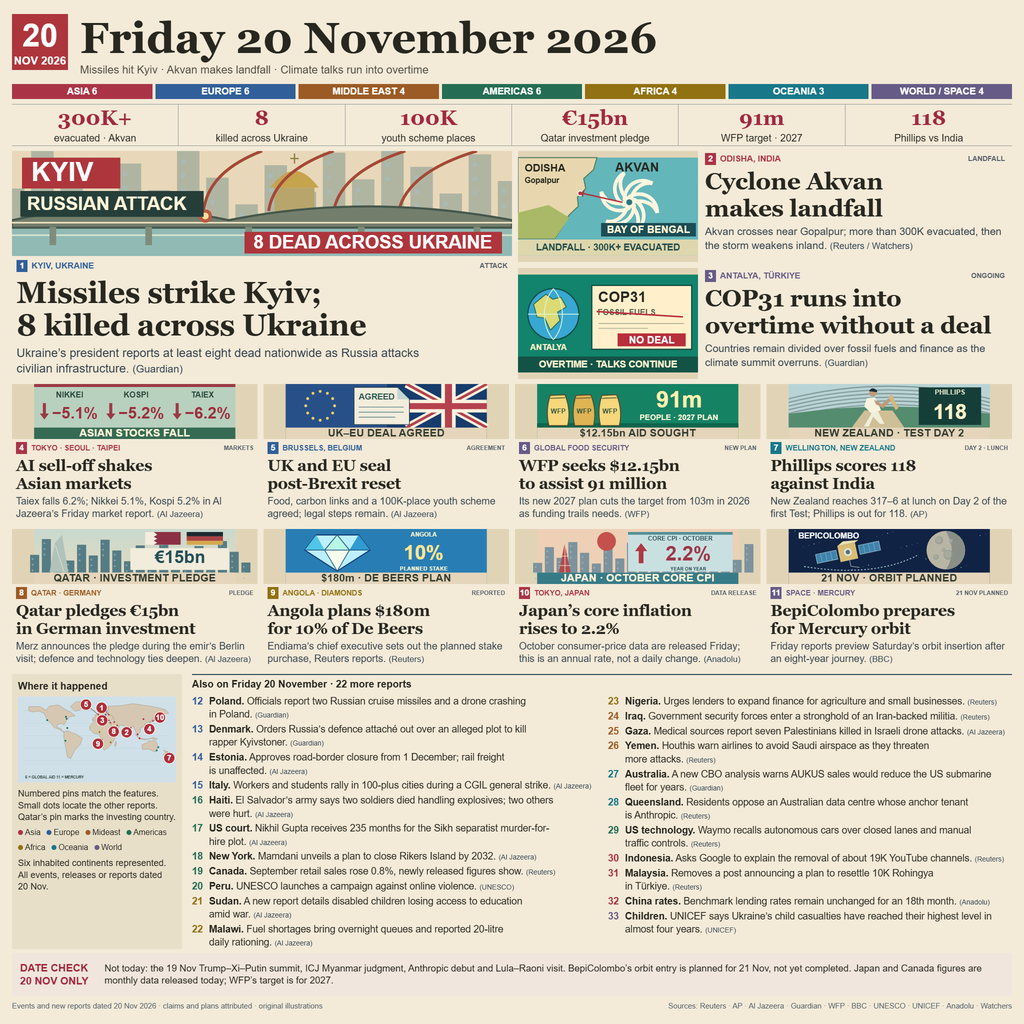
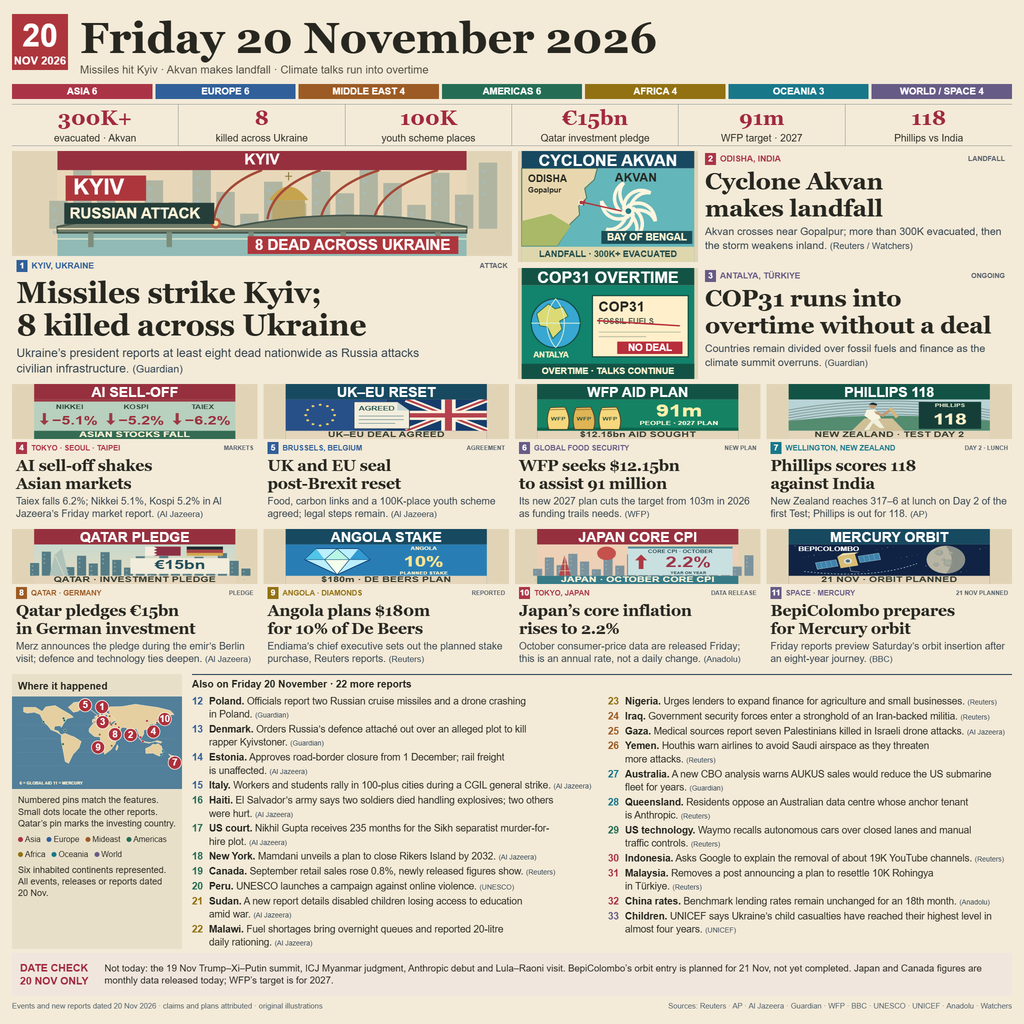
Add bold subject stamps and strengthen world map contrast

diff --git a/render.html b/render.html
@@ -50,7 +50,7 @@ h2{font:700 60px/1.08 Georgia,serif;letter-spacing:-.5px;margin:9px 0}
 .lower{display:grid;grid-template-columns:340px 1fr;gap:20px;min-height:0}
 .map-panel{background:#e8dfc9;padding:12px;min-width:0}
 .panel-title{font-size:20px;line-height:25px;font-weight:700;margin:0 0 8px}
-.map{width:100%;margin:0}
+.map{width:calc(100% + 24px);margin:0 -12px}
 .map svg{width:100%;display:block}
 .map-note{font-size:18px;line-height:1.3;margin:11px 0 0}
 .map-legend{display:flex;gap:12px;flex-wrap:wrap;margin-top:10px;font-size:16px}

diff --git a/AUDIT.md b/AUDIT.md
@@ -248,3 +248,19 @@ Final artifact: **1024×1024**, **834,815 bytes**, SHA-256 `358581892c2aa2f8f599
 Anti-slop **PASS**,severity0,gating0,external stylesheets0,53advisories (same geographic labels/full reporting/SVGobject structure reviewed in previous cycle). No detector fixes required. Ministral feedback against public#1: H1 **88/100**, H2 **78/100**, H3 **78/100**. This does not establish higher official quality; the measurable requested directional/color accents are retained, and the score regression is recorded. Second-model Gemini attempts timed out on two models and returned503 on another; no successful second-model audit or invented score is claimed. Three focused passes are complete; no claim of beating#1 or reaching92.
 
 Evidence: ignored `.makefun-kit/round5-*` includes scope-audit, pass metrics, critics, geometry/PNG/Linux logs; external `G:/kits/news-image-20261120-samples/round5-*` includes exact baseline, source snapshots, images and native/300px public-reference sheets. Authentic-system-prompt transcript blocker remains unresolved; a complete new bundle/pre-submit check is not claimed. Candidate remains local.
+
+## Sixth cycle · uppercase subject stamps and full-width world map
+
+Anchor4b1d280. Current standard-transcript requirements and can_submit:true were checked before edits; public Top1–3 were refreshed before edits and at final review, with original dimensions/URLs/IDs/UTCtimes in external references-final.json. Development rates remain99.2057%,99.1696%,99.1652%, overlapping90%intervals. No new official grade is available; submittedc0e008a remains98.2873%dev/provisional.
+
+Three measured passes: H1 adds white bold uppercase subject stamps to all11illustrations, on maroon/navy/bottle green, and retains all underlying facts/labels. H2 makes the map340px wide edge-to-edge in its sidebar (previously316px), stronger blue-ocean/warm-land contrast, pinradius22→24 and numerals30→34. H3 refines supporting headers from tall appended strips into46SVG-unit headers within the original viewBox height, restoring useful width to numerical scenes. Supporting artwork is vertically compressed into the remaining118of164SVGunits; this preserves data text and width but changes object proportions, a disclosed composition tradeoff. Main card tracks, serif headlines and all33report/source ledger bytes remain unchanged; only map CSS and illustration rendering changed.
+
+Measured banner sizes: Kyiv30pxmaster/15pxdelivery/4.39pxat300preview; Akvan/COP3132.21/16.10/4.72; eight supporting stamps28.17/14.09/4.13. Thus the requested26–30px lettering is interpreted at2048pxmaster scale; it is not26–30px on the delivered1024pxPNG. Banner text is uniformly white and bold. Short headers preserve existing qualifiers in the original illustration/copy (for example planned Mercury orbit date remains21Nov). The independent geometry audit verifies labels inside allSVGbounds and no text intersections.
+
+Map ocean#527f99/land#e5cfa0 distinguishes full coastlines at300px. Nine geographic feature pins retain exact anchors and offshore leaders; global aid/Mercury remain keyed. Larger24radius pins and34pxnumerals have a minimum **4.7055SVG-unit outline gap**. Map width equals panel width340px; no cropping/stretching of downloaded reference assets occurred.
+
[1 lines of base64/hex data omitted]
+
+Critic feedback: H1Groq52/100,H2Groq54/100,H3Ministral88/100 andGemini95/100. Different models and variable responses make these non-comparable official-quality estimates; one95tool rating does not establish beating public#1 or a make.fun win rate. Final exact300px public-reference sheet inspected. Full source credits/digest sentences still require native size.
+
+Anti-slop **PASS**,severity0,gating0,external stylesheets0,53advisories (13geographic/factual kickers,2multiline descriptions,38SVG-heavy rows), retained after bounds and visual review. No deterministic fixes required. Evidence: ignored .makefun-kit/round6-* and external G:/kits/news-image-20261120-samples/round6-* baseline/pass images/source/native300pxsheets. Authentic-system-prompt transcript blocker from earlier cycles remains unresolved; no complete new bundle/pre-submitcheck claimed. Candidate is local only.

diff --git a/DESIGN.md b/DESIGN.md
@@ -34,6 +34,10 @@ Flat surfaces, small source credits and thin divisional rules carry the print gr
 
 The two financial scenes have coordinated caption ribbons: Asian stocks uses sage #b8d0be, crimson direction arrows #9b3945 and green ribbon #356b53; Japan CPI uses peach #edd0b6, blue panel #c9e0e1 and teal ribbon #377b87. The arrows express reported direction, without implying a time series or changing the stated annual CPI rate. Other scenes and layout are unchanged by this refinement.
 
+All eleven illustrations now carry separate uppercase subject headers: maroon #96303e, navy #174960 or bottle green #135346, with white bold type. Supporting header lettering is28.17px master/14.09px delivery; Kyiv30/15px, Akvan andCOP3132.21/16.10px. These are measured rendered sizes, not rawSVGfont values. Supporting scene content is recomposed into the remaining vertical space below46SVG-unit headers; the source group is vertically compressed to preserve scene width and all original labels, an explicit tradeoff against object proportions. Main serif headlines and card tracks stay unchanged.
+
+The map now extends to both sidebar edges (340px master width), with blue #527f99 ocean, warm #e5cfa0 land and white coastlines. Numbered pin radius24SVGunits, numeral34px; leaders preserve geographic anchors. Minimum circle-outline gap4.71SVGunits after label-offset adjustments. The map is an overview of all six inhabited continents; it is not a detailed geographic atlas.
+
 ## Verified finish and limits
 
 The current review has zero geometry findings; two browser contexts and two isolated Linux runtime executions reproduce the exactPNG. The preceding composition change reduced dark fields; the current refinement restores rich color in selected illustration blocks. Measured mean HSV saturation rises2.54×/2.74×/2.00× for COP31/WFP/Angola versus f4c62da. This measures color intensity, not visual quality or an official score. The layout template and all editorial data remain byte-identical. Independent model critiques remain below the92point tool threshold; publication success is unverified. Details and evidence paths are inAUDIT.md.

diff --git a/README.md b/README.md
@@ -47,7 +47,9 @@ The illustration refinement adds emerald COP31/WFP fields, a brighter blue Angol
 
 Asian stocks now uses a soft sage field, three downward direction markers and a green caption ribbon. Japan CPI uses a peach skyline, pale blue data panel, upward direction marker and teal caption ribbon; October and year-on-year qualifications remain explicit.
 
-All 33 reports and the source ledger remain byte-identical to the submitted baseline. The current PNG is 834,815 bytes. The builder validates geometry before replacing the deliverable.
+Each illustration now has a short uppercase white subject stamp on maroon, navy or bottle green. Supporting stamps measure about 28px on the master (14px delivered); lead stamps measure 30–32px master (15–16px delivered). The world map fills the sidebar width and uses a stronger blue ocean, warm land and larger numbered pins.
+
+All 33 reports and the source ledger remain byte-identical to the submitted baseline. The current PNG is 849,296 bytes. The builder validates geometry before replacing the deliverable.
 
 Two independent browser contexts produce identical image bytes; two fresh offline Linux Node 22.23.4 containers reproduce that same PNG. The [audit](AUDIT.md) records the three measured passes and their limits. The candidate has no new official score: the submitted baseline's development rate is 98.2873%, while the sampled leader is 99.2057%. Local critics do not establish that the upgrade beats the leader.
 
